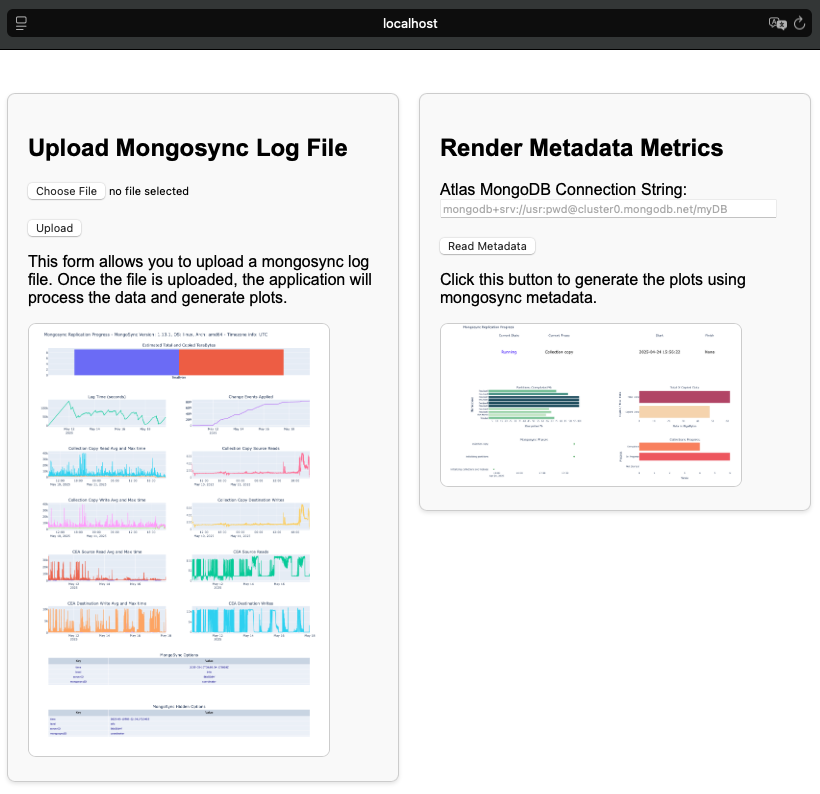
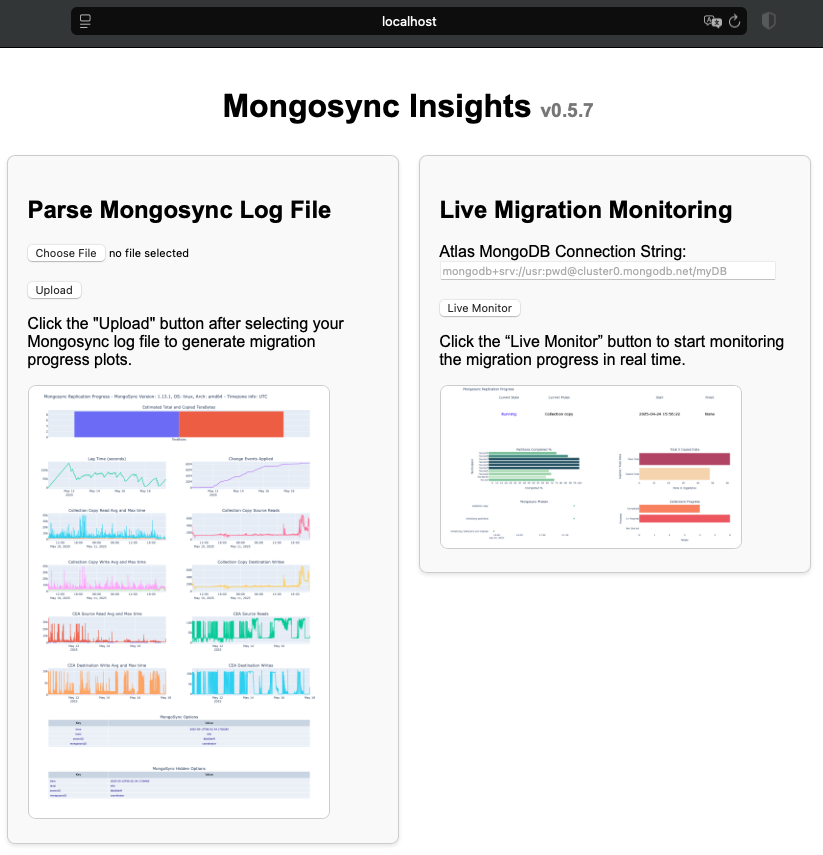
MIGRATION-471 and MIGRATION-474

diff --git a/migration/mongosync_insights/mongosync_insights.py b/migration/mongosync_insights/mongosync_insights.py
@@ -82,26 +82,29 @@ def home_page(message = ""):
                     }  
                 </style>  
             </head>  
-            <body>  
+            <body>
+                <div style="position: absolute; top: 20px; left: 50%; transform: translateX(-50%); text-align: center;">  
+                    <h1 style="margin-bottom: 0;">Mongosync Insights <span style="font-size:0.6em;color:#777;">v0.5.7</span></h1>  
+                </div>    
                 <div class="form-container">  
                     <!-- First form: File upload -->  
                     <form method="post" action="/upload" enctype="multipart/form-data">  
-                        <h2>Upload Mongosync Log File</h2>  
+                        <h2>Parse Mongosync Log File</h2>  
                         <input type="file" name="file"><br><br>  
                         <input type="submit" value="Upload">  
-                        <p>This form allows you to upload a mongosync log file. Once the file is uploaded, the application will process the data and generate plots.</p>  
+                        <p>Click the "Upload" button after selecting your Mongosync log file to generate migration progress plots.</p>  
                         <img src="static/mongosync_log_analyzer.png" width="300" alt="Mongosync Log Analyzer">  
                     </form>  
         
                     <!-- Second form: Metrics rendering -->  
                     <form id="metadataForm" method="post" action="/renderMetrics" enctype="multipart/form-data" onsubmit="return checkAtlasConnection();">   
-                        <h2>Render Metadata</h2>''' + 
+                        <h2>Live Migration Monitoring</h2>''' + 
                         
                         connectionStringForm +
 
                     '''    
-                        <input type="submit" value="Read Metadata">  
-                        <p>Click this button to generate the plots using mongosync metadata.</p>
+                        <input type="submit" value="Live Monitor">  
+                        <p>Click the “Live Monitor” button to start monitoring the migration progress in real time.</p>
                         <img src="static/mongosync_metadata.png" width="300" alt="Mongosync Log Analyzer">
                     </form>
 
@@ -115,7 +118,12 @@ def home_page(message = ""):
                                 return true; // Proceed with submission  
                             }  
                             </script>  
-                </div>  
+                </div>
+                <!--
+                    <div style="position:fixed; bottom:20px; left:50%; transform:translateX(-50%); color:#888; font-size:0.9em;">  
+                        Mongosync Insights v1.2.0  
+                    </div>   
+                -->
             </body>  
         </html>  
                                    ''')

diff --git a/migration/mongosync_insights/README.md b/migration/mongosync_insights/README.md
@@ -1,6 +1,6 @@
 # Mongosync Insights
 
-This project parses **mongosync** logs and metadata, generating a variety of plots to assist with monitoring and troubleshooting ongoing mongosync migrations.
+This project parses **mongosync** logs and reads the internal database (metadata), generating a variety of plots to assist with monitoring and troubleshooting ongoing mongosync migrations.
 
 ## requirements.txt
 
@@ -31,14 +31,14 @@ Once the application runs, you can access it by opening a web browser and naviga
 
 ![Mongosync Logs Analyzer](static/mongosync_insights_home.png)
 
-### Uploading the mongosync Log File
+### Parsing the `mongosync` Log File
 
 The application provides a user interface for uploading the `mongosync` log file. Clicking a "Browse" or "Choose File" button, select the file from your file system, and then click on "Open" or "Upload" button.
 
-### Reading the Metadata
+### Live monitoring the migration
 
 When running for the first time, the application will provide a form requesting the target's connection string. 
-Clicking the "Read Metadata" it will save the connection string in the `config.ini` and the page will refresh with the plots.
+Clicking the "Live Monitor" it will save the connection string in the `config.ini` and the page will refresh with the migration progress.
 
 ## Viewing the Plot Information
 

diff --git a/migration/README.md b/migration/README.md
@@ -2,7 +2,7 @@
 This section contains scripts to help before, during, and after migrations.
 
 ## [Mongosync Insights](mongosync_insights)
-This project parses **mongosync** logs and metadata, generating a variety of plots to assist with monitoring and troubleshooting ongoing mongosync migrations.
+This project parses **mongosync** logs and reads the internal database (metadata), generating a variety of plots to assist with monitoring and troubleshooting ongoing mongosync migrations.
 
 ### License
 
